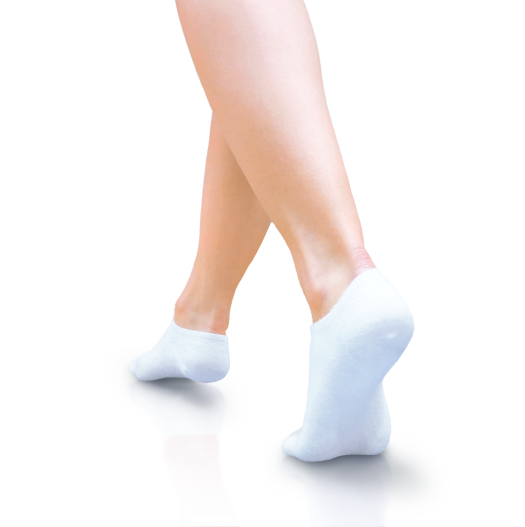
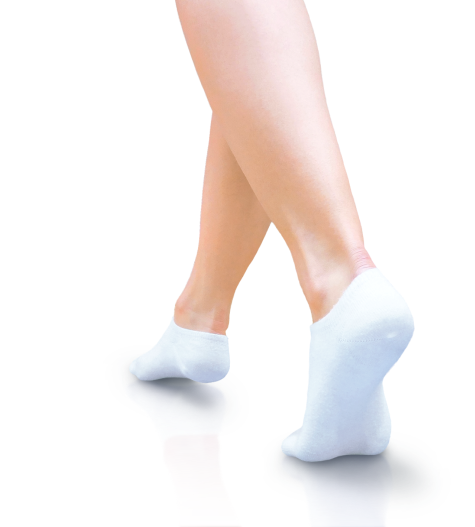
Мелкие правки

Changed region(s): [[0.2358, 0.0, 0.8842, 0.9412]]

diff --git a/fraudom/index.html b/fraudom/index.html
@@ -162,6 +162,28 @@
 
     </section>
 
+    <section class="section section-check-clean">
+
+        <div class="container">
+
+            <div class="row">
+                <div class="col-lg-7 col-md-8 section-info">
+
+                    <h2 class="h2 h2_and_text">Проверяем чистоту на деле</h2>
+                    <p class="p text">Если Вас не устроит результат сделаем повторную уборку бесплатно либо вернем деньги.</p>
+
+                    <ul class="list">
+                        <li>Проверяем уборку с помощью «белых носочков»</li>
+                        <li>Контроль всех этапов работы со стороны менеджеров</li>
+                        <li>Чуткое внимание к любым просьбам клиента</li>
+                        <li>Своевременное реагирование на претензии</li>
+                    </ul>
+                </div>
+            </div>
+        </div>
+
+    </section>
+
     <section class="section section-calc">
         <a id="calc" name="calc"></a>
         <div class="container">
@@ -994,27 +1016,7 @@
     </section>
 
 
-    <section class="section section-check-clean">
-
-        <div class="container">
-
-            <div class="row">
-                <div class="col-lg-7 col-md-8 section-info">
-
-                    <h2 class="h2 h2_and_text">Проверяем чистоту на деле</h2>
-                    <p class="p text">Если Вас не устроит результат сделаем повторную уборку бесплатно либо вернем деньги.</p>
-
-                    <ul class="list">
-                        <li>Проверяем уборку с помощью «белых носочков»</li>
-                        <li>Контроль всех этапов работы со стороны менеджеров</li>
-                        <li>Чуткое внимание к любым просьбам клиента</li>
-                        <li>Своевременное реагирование на претензии</li>
-                    </ul>
-                </div>
-            </div>
-        </div>
-
-    </section>
+    
 
 
     <section class="section section-any-service">
@@ -1033,35 +1035,35 @@
                 <div class="col-md-6">
                     <div class="vertical-slider">
                         <div class="vert-slide">
-                            <div class="bg" style="background-image: url('img/slider/vert-slider-1.jpg');"></div>
+                            <div class="bg" style="background-image: url('img/b2c_one.png');"></div>
                             <p class="description">
                                 Уборка зоны ресепшена
                             </p>
                         </div>
                         <div class="vert-slide">
-                            <div class="bg" style="background-image: url('img/slider/vert-slider-5.jpg');"></div>
+                            <div class="bg" style="background-image: url('img/b2c_two.png');"></div>
                             <p class="description">
                                 Уборка зоны ресепшена
                             </p>
                         </div>
                         <div class="vert-slide">
-                            <div class="bg" style="background-image: url('img/slider/vert-slider-2.jpg');"></div>
+                            <div class="bg" style="background-image: url('img/b2c_three.png');"></div>
                             <p class="description">
                                 Уборка комнат для переговоров
                             </p>
                         </div>
                         <div class="vert-slide">
-                            <div class="bg" style="background-image: url('img/slider/vert-slider-3.jpg');"></div>
+                            <div class="bg" style="background-image: url('img/b2c_two.png');"></div>
                             <p class="description">
                                 Уборка коридоров
                             </p>
                         </div>
-                        <div class="vert-slide">
+                        <!-- <div class="vert-slide">
                             <div class="bg" style="background-image: url('img/slider/vert-slider-4.jpg');"></div>
                             <p class="description">
                                 Уборка рабочей зоны
                             </p>
-                        </div>
+                        </div> -->
                     </div>
                 </div>
             </div>

diff --git a/fraudom/css/style.css b/fraudom/css/style.css
@@ -3058,3 +3058,107 @@ select.form-control:not([size]):not([multiple]) {
   color: #9dafbd;
   max-width: 330px;
 }
+.cleanWarranty {
+  padding-top: 80px;
+  padding-bottom: 119px;
+  background: -webkit-gradient(linear, left top, left bottom, from(rgba(247, 251, 254, 0.8)), to(rgba(247, 251, 254, 0))), url(../img/Bg.png) center no-repeat;
+  background: linear-gradient(180deg, rgba(247, 251, 254, 0.8) 0%, rgba(247, 251, 254, 0) 100%), url(../img/Bg.png) center no-repeat;
+  background-size: cover;
+  position: relative;
+  overflow-x: none;
+}
+
+.cleanWarranty-img {
+  position: absolute;
+  right: 0px;
+  top: 0;
+}
+
+.cleanWarranty__header {
+  font-weight: 600;
+  font-size: 48px;
+  line-height: 56px;
+  margin-bottom: 30px;
+}
+
+.cleanWarranty__description {
+  display: block;
+  font-size: 18px;
+  line-height: 26px;
+  color: #8CA2B3;
+  max-width: 460px;
+  margin-bottom: 30px;
+}
+
+.cleanWarranty__list {
+  list-style: none;
+}
+
+.cleanWarranty__mark {
+  width: 6px;
+  height: 6px;
+  background: #3a9fec;
+  display: inline-block;
+  vertical-align: middle;
+  border-radius: 50%;
+  margin-right: 10px;
+}
+
+.cleanWarranty__item {
+  font-size: 20px;
+  line-height: 28px;
+  color: #4C5760;
+  margin-bottom: 16px;
+}
+
+.cleanWarranty__item:last-child {
+  margin-bottom: 0;
+}
+
+@media (max-width: 991px) {
+  .cleanWarranty {
+    display: -webkit-box;
+    display: -ms-flexbox;
+    display: flex;
+  }
+  .cleanWarranty-img {
+    z-index: 0;
+    display: none;
+  }
+  .cleanWarranty__header {
+    max-width: 500px;
+  }
+}
+
+@media (max-width: 768px) {
+  .cleanwarranty {
+    padding-bottom: 50px;
+    padding-top: 50px;
+  }
+  .cleanWarranty__header {
+    font-size: 34px;
+    line-height: 40px;
+  }
+}
+
+@media (max-width: 576px) {
+  .cleanWarranty {
+    padding-top: 30px;
+    padding-bottom: 30px;
+  }
+  .cleanWarranty__header {
+    font-size: 28px;
+    line-height: 36px;
+    text-align: center;
+    margin-bottom: 20px;
+  }
+  .cleanWarranty__description {
+    font-size: 14px;
+    line-height: 20px;
+    margin-bottom: 20px;
+  }
+  .cleanWarranty__item {
+    font-size: 12px;
+    line-height: 16px;
+  }
+}

diff --git a/src/index.html b/src/index.html
@@ -1586,7 +1586,7 @@
                       <span class="command-slide__title">Стаж</span>
                       <span class="command-slide__value">5 лет</span>
                     </div>
-                    <div class="command-slide__more">Подробнее</div>
+                    <!-- <div class="command-slide__more">Подробнее</div> -->
                   </div>
                   <button class="button-modal command-button-slide" data-target="modal-main">Заказать уборку</button>
                 </div>
@@ -1608,7 +1608,7 @@
                       <span class="command-slide__title">Стаж</span>
                       <span class="command-slide__value">7 лет</span>
                     </div>
-                    <div class="command-slide__more">Подробнее</div>
+                    <!-- <div class="command-slide__more">Подробнее</div> -->
                   </div>
                   <button class="button-modal command-button-slide" data-target="modal-main">Заказать уборку</button>
                 </div>
@@ -2379,7 +2379,7 @@
               </li>
               <!-- /.add-modal-contact-add__item -->
             </ul>
-            <div class="add-modal-contact-add__more">Подробнее</div>
+            <!-- <div class="add-modal-contact-add__more">Подробнее</div> -->
             <!-- /.add-modal-contact-add__list -->
           </div>
           <!-- /.add-modal-contact__add -->

diff --git a/fraudom/office.html b/fraudom/office.html
@@ -151,6 +151,22 @@
 
     </section>
 
+    <section class="cleanWarranty">
+        <div class="container">
+          <h2 class="cleanWarranty__header">Проверяем чистоту на деле</h2>
+          <span class="cleanWarranty__description">Если Вас не устроит результат сделаем повторную уборку бесплатно либо вернем деньги.</span>
+          <ul class="cleanWarranty__list">
+            <li class="cleanWarranty__item"> <span class="cleanWarranty__mark"></span> Проверяем уборку с помощью «белых носков»</li>
+            <li class="cleanWarranty__item"> <span class="cleanWarranty__mark"></span> Контроль всех этапов работы со стороны менеджеров</li>
+            <li class="cleanWarranty__item"> <span class="cleanWarranty__mark"></span> Убираем по Вашим правилам</li>
+            <li class="cleanWarranty__item"> <span class="cleanWarranty__mark"></span> Штрафные санкции для Нас уже прописаны</li>
+          </ul>
+          <div class="cleanWarranty-img">
+            <img src="img/legs.png" alt="" class="cleanWarranty-img__picture">
+          </div>
+        </div>
+      </section>
+
     <section class="advantages">
         <div class="container">
             <h2 class="advantages-header h2 text-center">Наши преимущества</h2>
